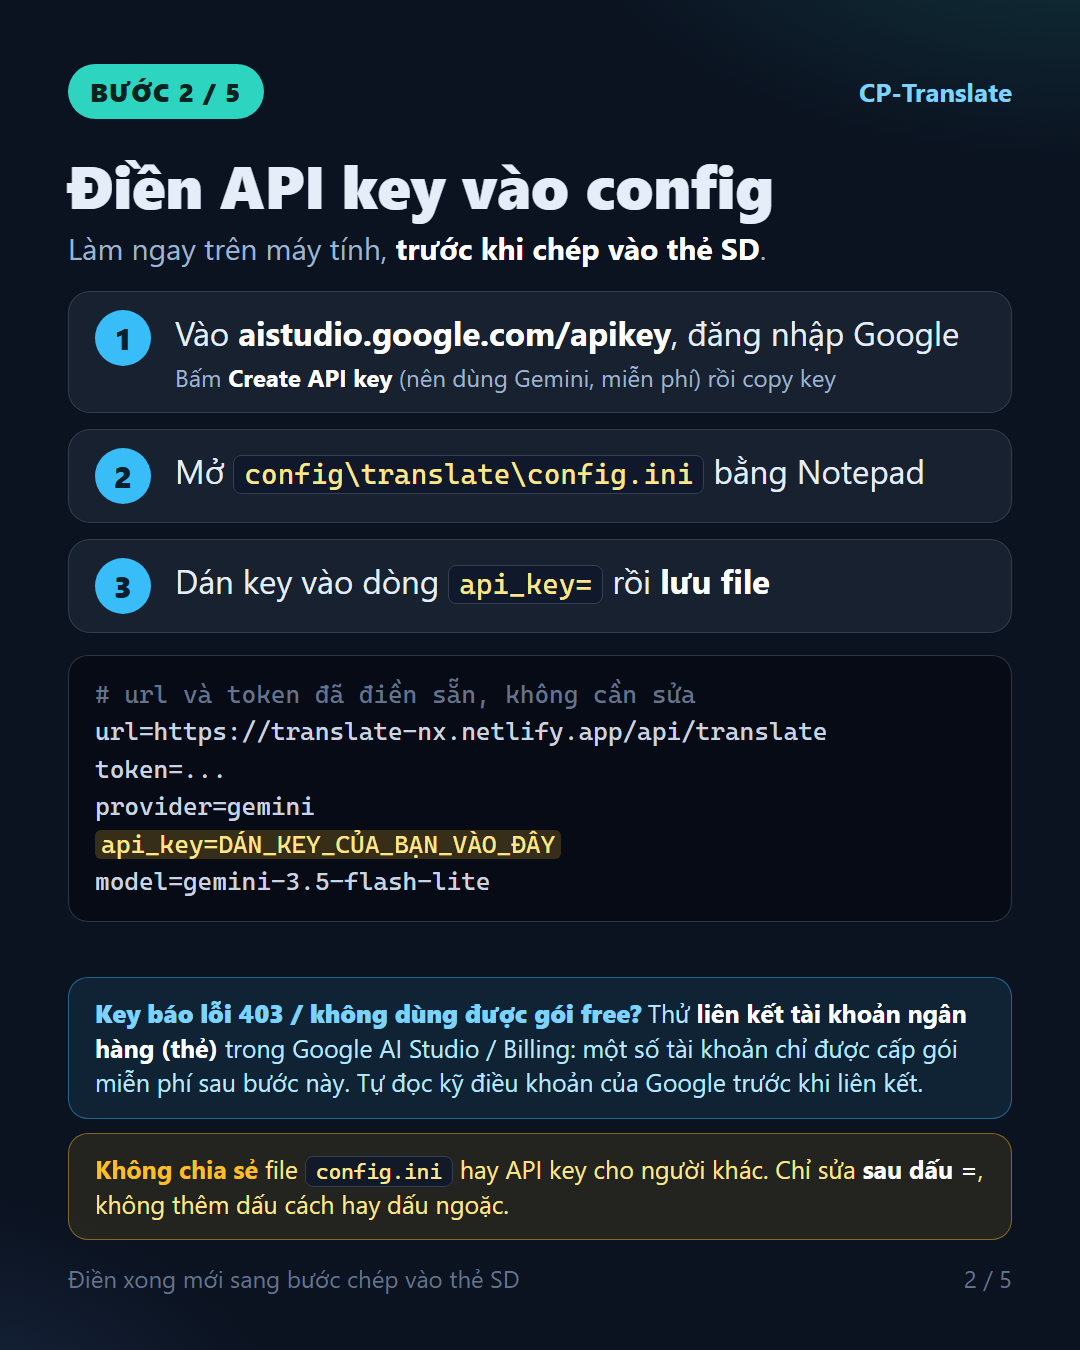
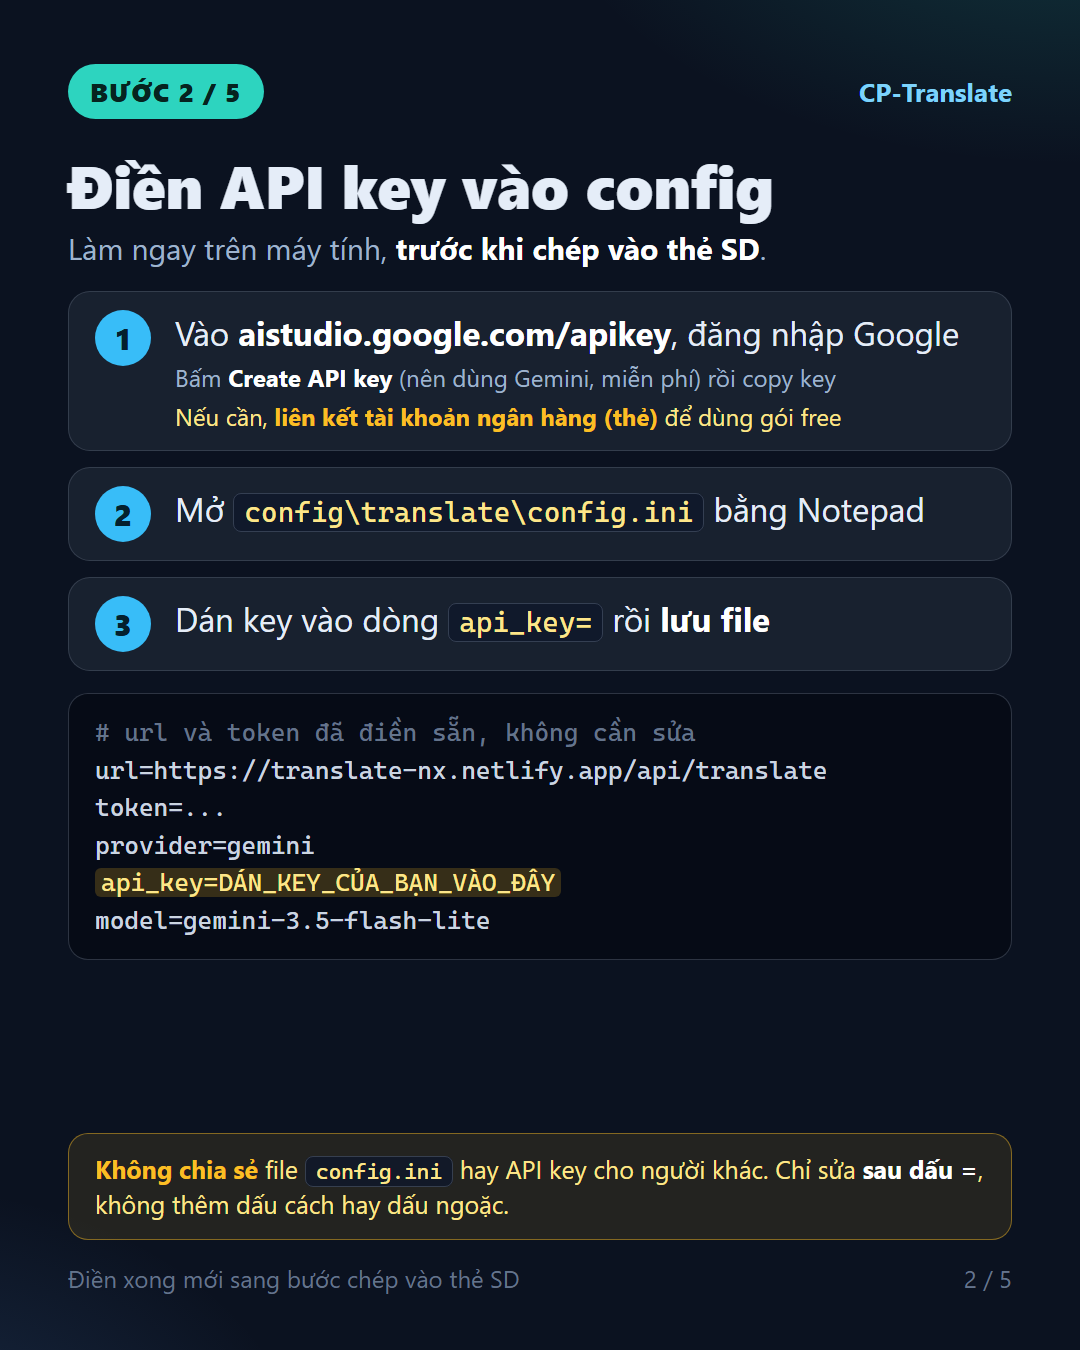
Guide step 2: put the bank-account hint on the Create API key line
Replaces the separate tip box with a highlighted line inside step 1.

Changed region(s): [[0.0611, 0.28, 0.9472, 0.8089]]

diff --git a/docs/guide/src/step2.html b/docs/guide/src/step2.html
@@ -7,8 +7,8 @@
   .panel.cfg { font-size: 25px; padding: 20px 26px; line-height: 1.5; }
   .note { font-size: 25px; padding: 18px 26px; line-height: 1.38; }
   .note + .note { margin-top: 14px; }
-  .tip { background: rgba(56, 189, 248, 0.10); border-color: rgba(56, 189, 248, 0.45); color: #bae6fd; }
-  .tip .t { color: #7dd3fc; font-weight: 800; }
+  .step small.bank { color: #fde68a; margin-top: 6px; }
+  .step small.bank b { color: #fbbf24; }
 </style></head>
 <body><div class="card">
   <header><span class="badge">BƯỚC 2 / 5</span><span class="app">CP-Translate</span></header>
@@ -16,7 +16,7 @@
   <p class="sub" style="margin-bottom:22px">Làm ngay trên máy tính, <b>trước khi chép vào thẻ SD</b>.</p>
 
   <div class="steps">
-    <div class="step"><div class="num">1</div><p>Vào <b>aistudio.google.com/apikey</b>, đăng nhập Google<small>Bấm <b>Create API key</b> (nên dùng Gemini, miễn phí) rồi copy key</small></p></div>
+    <div class="step"><div class="num">1</div><p>Vào <b>aistudio.google.com/apikey</b>, đăng nhập Google<small>Bấm <b>Create API key</b> (nên dùng Gemini, miễn phí) rồi copy key</small><small class="bank">Nếu cần, <b>liên kết tài khoản ngân hàng (thẻ)</b> để dùng gói free</small></p></div>
     <div class="step"><div class="num">2</div><p>Mở <code>config\translate\config.ini</code> bằng Notepad</p></div>
     <div class="step"><div class="num">3</div><p>Dán key vào dòng <code>api_key=</code> rồi <b>lưu file</b></p></div>
   </div>
@@ -29,7 +29,6 @@ provider=gemini
 model=gemini-3.5-flash-lite</div>
 
   <div class="sp"></div>
-  <div class="note tip"><span class="t">Key báo lỗi 403 / không dùng được gói free?</span> Thử <b>liên kết tài khoản ngân hàng (thẻ)</b> trong Google AI Studio / Billing: một số tài khoản chỉ được cấp gói miễn phí sau bước này. Tự đọc kỹ điều khoản của Google trước khi liên kết.</div>
   <div class="note"><span class="warn">Không chia sẻ</span> file <code>config.ini</code> hay API key cho người khác. Chỉ sửa <b>sau dấu =</b>, không thêm dấu cách hay dấu ngoặc.</div>
   <footer><span>Điền xong mới sang bước chép vào thẻ SD</span><span>2 / 5</span></footer>
 </div></body></html>
